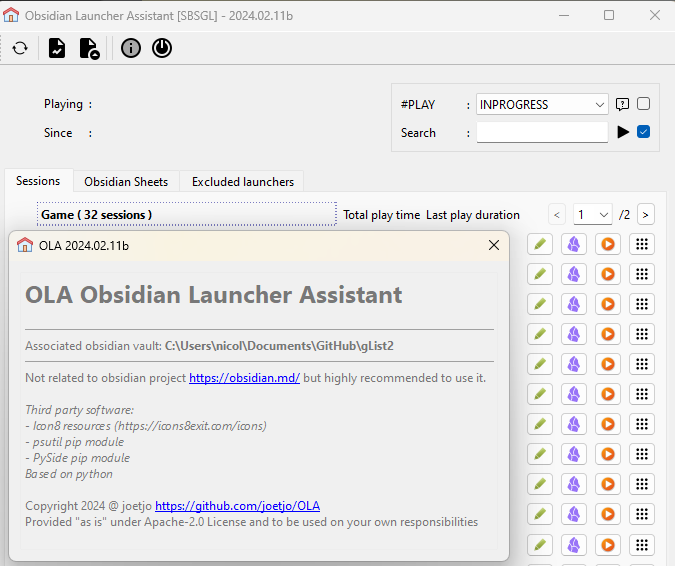
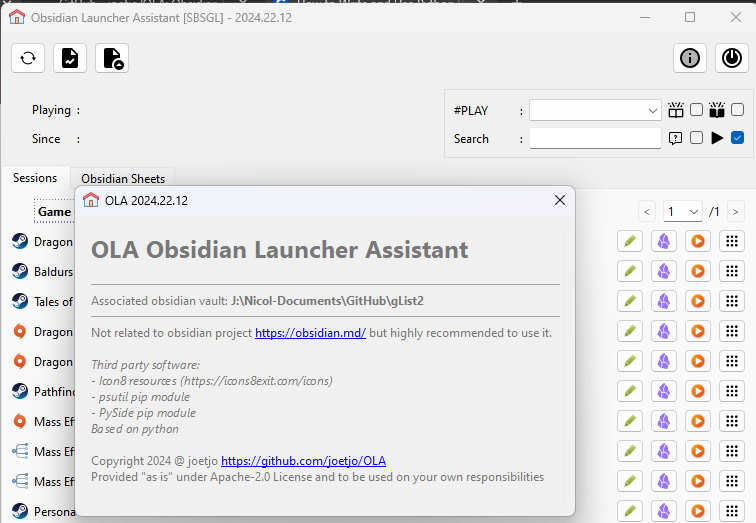
readme update

diff --git a/ReadMe.md b/ReadMe.md
@@ -42,13 +42,13 @@ and Obsidian is a great tool ! but it should do what it handles the best.
 
 ---
 
-Screenshot from _Version 2024.02.11:_ 
+Screenshot from _Version 2024.22.12:_ 
 
 ![ola About](screen.png "About dialog'")
 
-![ola Assistant](screen1.png "Obsidian file tag 'In Progress'")
+![ola Assistant](screen1.png "Obsidian file tag 'In Progress', Type RPG")
 
-![ola session](screen2.png "Last sessions launched tab")
+![ola session](screen2.png "Last sessions launched tab ( visual novels disabled )")
 
 # Dev corner  
 
